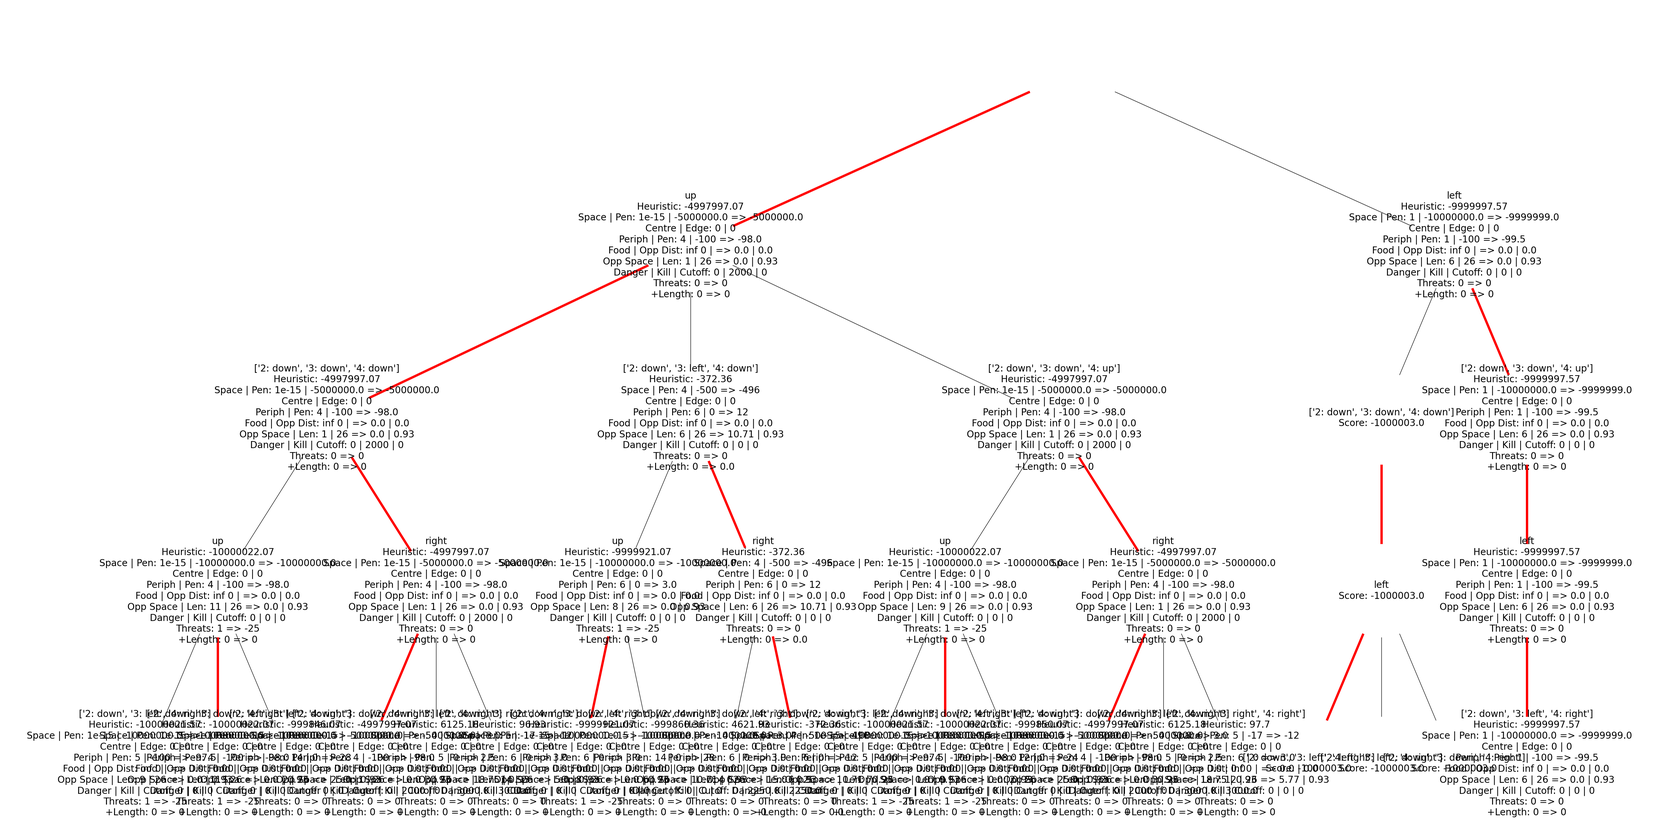
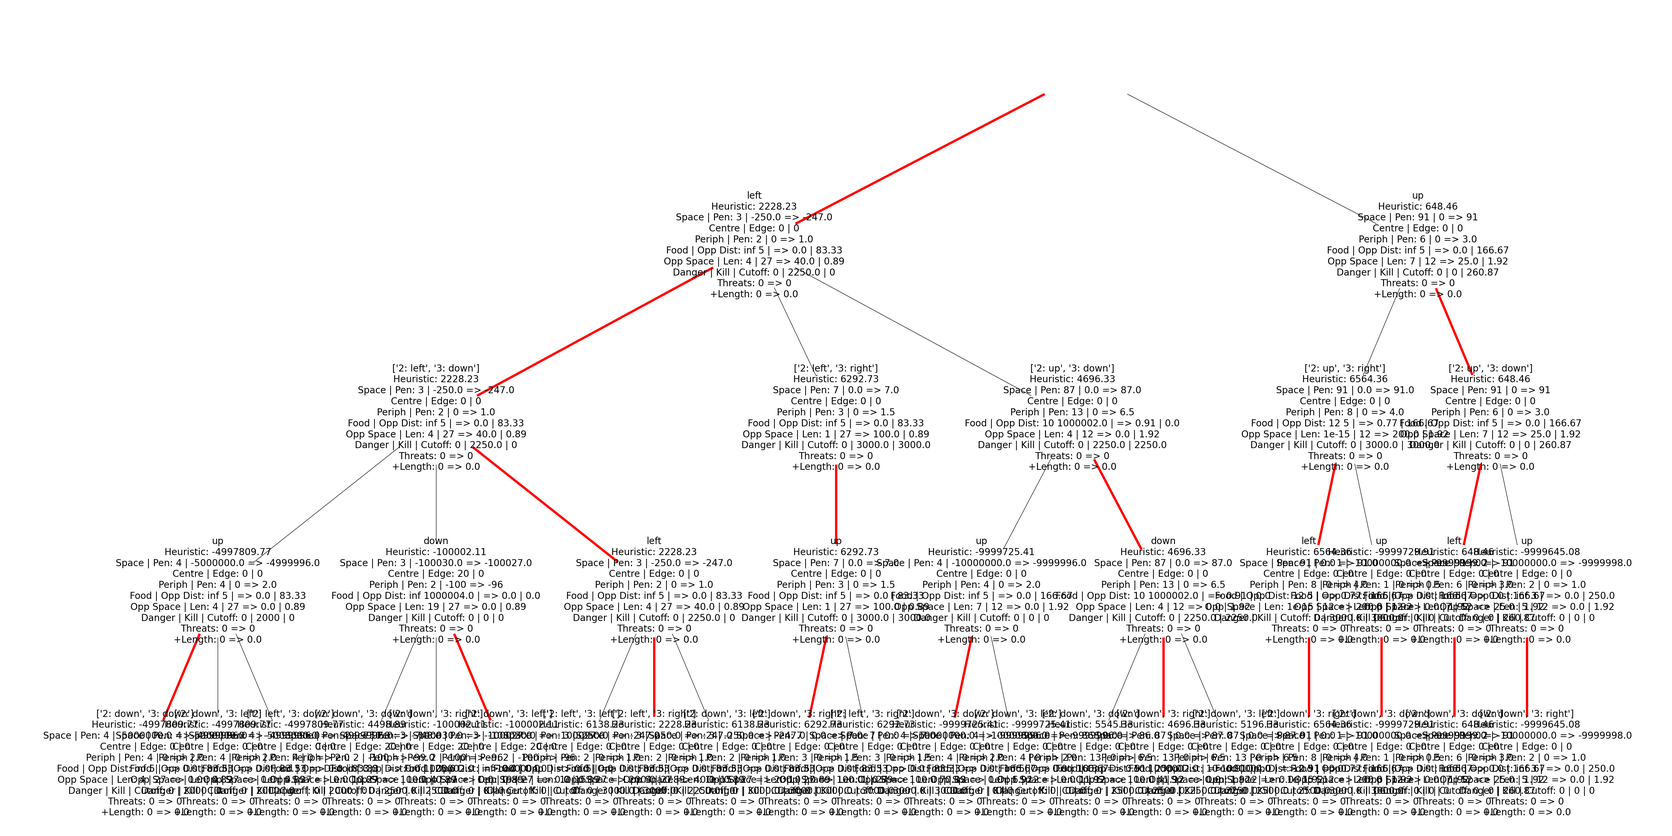
This is great we're making so much progress lal units passed

diff --git a/debugging.py b/debugging.py
@@ -66,7 +66,10 @@ game_state = {"game":{"id":"4f132881-17d2-4634-9a68-b86fef3f787d","ruleset":{"na
 game_state = {"game":{"id":"0425b5c0-5502-464f-846b-c6acfda810c3","ruleset":{"name":"standard","version":"?","settings":{"foodSpawnChance":15,"minimumFood":1}},"map":"standard","timeout":500,"source":"ladder"},"turn":39,"board":{"width":11,"height":11,"food":[{"x":0,"y":10},{"x":10,"y":3}],"hazards":[],"snakes":[{"id":"gs_9Q8RJRqxbh8pqcbq6mdyd9C9","name":"FerralSnake","health":73,"body":[{"x":0,"y":7},{"x":0,"y":8},{"x":0,"y":9},{"x":1,"y":9},{"x":2,"y":9}],"latency":296,"head":{"x":0,"y":7},"length":5,"shout":"","squad":"","customizations":{"color":"#3b228c","head":"pop-star","tail":"shiny"}},{"id":"gs_Kh3mbphyWPdhfByFCt4ft9Xb","name":"Nightwing","health":90,"body":[{"x":3,"y":6},{"x":3,"y":7},{"x":4,"y":7},{"x":4,"y":6},{"x":5,"y":6},{"x":6,"y":6},{"x":7,"y":6}],"latency":147,"head":{"x":3,"y":6},"length":7,"shout":"","squad":"","customizations":{"color":"#1f51ff","head":"silly","tail":"freckled"}}]},"you":{"id":"gs_Kh3mbphyWPdhfByFCt4ft9Xb","name":"Nightwing","health":90,"body":[{"x":3,"y":6},{"x":3,"y":7},{"x":4,"y":7},{"x":4,"y":6},{"x":5,"y":6},{"x":6,"y":6},{"x":7,"y":6}],"latency":147,"head":{"x":3,"y":6},"length":7,"shout":"","squad":"","customizations":{"color":"#1f51ff","head":"silly","tail":"freckled"}}}
 # food
 game_state = {"game":{"id":"1a4f72a4-5189-4159-ab8d-4c8dcf87534c","ruleset":{"name":"standard","version":"?","settings":{"foodSpawnChance":15,"minimumFood":1}},"map":"standard","timeout":500,"source":"ladder"},"turn":101,"board":{"width":11,"height":11,"food":[{"x":7,"y":7}],"hazards":[],"snakes":[{"id":"gs_3Vy8mhvpvVvCyC79DXxyXdjM","name":"rusty_rooster","health":94,"body":[{"x":2,"y":7},{"x":2,"y":6},{"x":2,"y":5},{"x":2,"y":4},{"x":1,"y":4},{"x":0,"y":4},{"x":0,"y":3},{"x":1,"y":3},{"x":2,"y":3}],"latency":22,"head":{"x":2,"y":7},"length":9,"shout":"","squad":"","customizations":{"color":"#c76d0c","head":"chicken","tail":"mlh-gene"}},{"id":"gs_hhw9dBYrTt73kYhShw84cYYX","name":"Nightwing","health":90,"body":[{"x":5,"y":6},{"x":4,"y":6},{"x":4,"y":5},{"x":3,"y":5},{"x":3,"y":6},{"x":3,"y":7},{"x":3,"y":8},{"x":3,"y":9}],"latency":149,"head":{"x":5,"y":6},"length":8,"shout":"","squad":"","customizations":{"color":"#1f51ff","head":"silly","tail":"bonhomme"}},{"id":"gs_KfkBfgWDgfHS9GjDcVPkwmfC","name":"Frank The Tank","health":100,"body":[{"x":7,"y":0},{"x":7,"y":1},{"x":6,"y":1},{"x":6,"y":2},{"x":7,"y":2},{"x":8,"y":2},{"x":9,"y":2},{"x":9,"y":1},{"x":10,"y":1},{"x":10,"y":0},{"x":9,"y":0},{"x":8,"y":0},{"x":8,"y":0}],"latency":10,"head":{"x":7,"y":0},"length":13,"shout":"Hi!","squad":"","customizations":{"color":"#ffff33","head":"whale","tail":"dragon"}}]},"you":{"id":"gs_hhw9dBYrTt73kYhShw84cYYX","name":"Nightwing","health":90,"body":[{"x":5,"y":6},{"x":4,"y":6},{"x":4,"y":5},{"x":3,"y":5},{"x":3,"y":6},{"x":3,"y":7},{"x":3,"y":8},{"x":3,"y":9}],"latency":149,"head":{"x":5,"y":6},"length":8,"shout":"","squad":"","customizations":{"color":"#1f51ff","head":"silly","tail":"bonhomme"}}}
-# Aggress
+game_state = {"game":{"id":"336d94a2-bea3-4d53-906b-d71364abc623","ruleset":{"name":"standard","version":"?","settings":{"foodSpawnChance":15,"minimumFood":1}},"map":"standard","timeout":500,"source":"ladder"},"turn":168,"board":{"width":11,"height":11,"food":[{"x":3,"y":5},{"x":2,"y":5},{"x":4,"y":10}],"hazards":[],"snakes":[{"id":"gs_rRKPyPRPDtfgMGhPWwbxDSd8","name":"Lancer","health":89,"body":[{"x":6,"y":6},{"x":5,"y":6},{"x":4,"y":6},{"x":4,"y":7},{"x":3,"y":7},{"x":2,"y":7},{"x":2,"y":8},{"x":2,"y":9},{"x":1,"y":9},{"x":1,"y":8}],"latency":454,"head":{"x":6,"y":6},"length":10,"shout":"","squad":"","customizations":{"color":"#3d5a80","head":"nr-rocket","tail":"comet"}},{"id":"gs_Y749TFVS6VFbW8kb3crHqmY4","name":"slieks","health":99,"body":[{"x":9,"y":9},{"x":9,"y":10},{"x":8,"y":10},{"x":8,"y":9},{"x":8,"y":8},{"x":8,"y":7},{"x":8,"y":6},{"x":8,"y":5},{"x":8,"y":4},{"x":8,"y":3},{"x":9,"y":3},{"x":10,"y":3}],"latency":184,"head":{"x":9,"y":9},"length":12,"shout":"","squad":"","customizations":{"color":"#cccccc","head":"moto-helmet","tail":"offroad"}},{"id":"gs_QgDk78VhgfyT8gpr8DqjPg4H","name":"Nightwing","health":90,"body":[{"x":6,"y":8},{"x":6,"y":9},{"x":7,"y":9},{"x":7,"y":8},{"x":7,"y":7},{"x":7,"y":6},{"x":7,"y":5},{"x":7,"y":4},{"x":6,"y":4},{"x":5,"y":4},{"x":4,"y":4},{"x":3,"y":4},{"x":2,"y":4},{"x":1,"y":4},{"x":1,"y":3},{"x":1,"y":2},{"x":1,"y":1},{"x":2,"y":1},{"x":2,"y":2}],"latency":280,"head":{"x":6,"y":8},"length":19,"shout":"","squad":"","customizations":{"color":"#1f51ff","head":"silly","tail":"bonhomme"}}]},"you":{"id":"gs_QgDk78VhgfyT8gpr8DqjPg4H","name":"Nightwing","health":90,"body":[{"x":6,"y":8},{"x":6,"y":9},{"x":7,"y":9},{"x":7,"y":8},{"x":7,"y":7},{"x":7,"y":6},{"x":7,"y":5},{"x":7,"y":4},{"x":6,"y":4},{"x":5,"y":4},{"x":4,"y":4},{"x":3,"y":4},{"x":2,"y":4},{"x":1,"y":4},{"x":1,"y":3},{"x":1,"y":2},{"x":1,"y":1},{"x":2,"y":1},{"x":2,"y":2}],"latency":280,"head":{"x":6,"y":8},"length":19,"shout":"","squad":"","customizations":{"color":"#1f51ff","head":"silly","tail":"bonhomme"}}}# Aggress
+game_state = {"game":{"id":"336d94a2-bea3-4d53-906b-d71364abc623","ruleset":{"name":"standard","version":"?","settings":{"foodSpawnChance":15,"minimumFood":1}},"map":"standard","timeout":500,"source":"ladder"},"turn":182,"board":{"width":11,"height":11,"food":[{"x":2,"y":5},{"x":10,"y":0},{"x":1,"y":1}],"hazards":[],"snakes":[{"id":"gs_rRKPyPRPDtfgMGhPWwbxDSd8","name":"Lancer","health":90,"body":[{"x":3,"y":3},{"x":2,"y":3},{"x":1,"y":3},{"x":1,"y":4},{"x":0,"y":4},{"x":0,"y":5},{"x":0,"y":6},{"x":1,"y":6},{"x":2,"y":6},{"x":3,"y":6},{"x":3,"y":5}],"latency":454,"head":{"x":3,"y":3},"length":11,"shout":"","squad":"","customizations":{"color":"#3d5a80","head":"nr-rocket","tail":"comet"}},{"id":"gs_Y749TFVS6VFbW8kb3crHqmY4","name":"slieks","health":85,"body":[{"x":9,"y":7},{"x":9,"y":8},{"x":9,"y":9},{"x":9,"y":10},{"x":8,"y":10},{"x":8,"y":9},{"x":8,"y":8},{"x":8,"y":7},{"x":8,"y":6},{"x":8,"y":5},{"x":9,"y":5},{"x":9,"y":6}],"latency":156,"head":{"x":9,"y":7},"length":12,"shout":"","squad":"","customizations":{"color":"#cccccc","head":"moto-helmet","tail":"offroad"}},{"id":"gs_QgDk78VhgfyT8gpr8DqjPg4H","name":"Nightwing","health":100,"body":[{"x":4,"y":10},{"x":4,"y":9},{"x":3,"y":9},{"x":2,"y":9},{"x":1,"y":9},{"x":1,"y":8},{"x":1,"y":7},{"x":2,"y":7},{"x":2,"y":8},{"x":3,"y":8},{"x":4,"y":8},{"x":5,"y":8},{"x":5,"y":7},{"x":6,"y":7},{"x":6,"y":8},{"x":6,"y":9},{"x":7,"y":9},{"x":7,"y":8},{"x":7,"y":7},{"x":7,"y":7}],"latency":127,"head":{"x":4,"y":10},"length":20,"shout":"","squad":"","customizations":{"color":"#1f51ff","head":"silly","tail":"bonhomme"}}]},"you":{"id":"gs_QgDk78VhgfyT8gpr8DqjPg4H","name":"Nightwing","health":100,"body":[{"x":4,"y":10},{"x":4,"y":9},{"x":3,"y":9},{"x":2,"y":9},{"x":1,"y":9},{"x":1,"y":8},{"x":1,"y":7},{"x":2,"y":7},{"x":2,"y":8},{"x":3,"y":8},{"x":4,"y":8},{"x":5,"y":8},{"x":5,"y":7},{"x":6,"y":7},{"x":6,"y":8},{"x":6,"y":9},{"x":7,"y":9},{"x":7,"y":8},{"x":7,"y":7},{"x":7,"y":7}],"latency":127,"head":{"x":4,"y":10},"length":20,"shout":"","squad":"","customizations":{"color":"#1f51ff","head":"silly","tail":"bonhomme"}}}
+game_state = {"game":{"id":"b0f0110d-37d3-4eed-ac6c-5788bc74f23d","ruleset":{"name":"standard","version":"?","settings":{"foodSpawnChance":15,"minimumFood":1}},"map":"standard","timeout":500,"source":"ladder"},"turn":194,"board":{"width":11,"height":11,"food":[{"x":0,"y":0}],"hazards":[],"snakes":[{"id":"gs_tXxjRDpbqt4rvqdY3tydJXgT","name":"Shapeshifter","health":100,"body":[{"x":4,"y":4},{"x":5,"y":4},{"x":6,"y":4},{"x":6,"y":5},{"x":5,"y":5},{"x":5,"y":6},{"x":4,"y":6},{"x":3,"y":6},{"x":3,"y":5},{"x":2,"y":5},{"x":1,"y":5},{"x":1,"y":4},{"x":1,"y":3},{"x":1,"y":2},{"x":1,"y":2}],"latency":449,"head":{"x":4,"y":4},"length":15,"shout":"","squad":"","customizations":{"color":"#900050","head":"cosmic-horror-special","tail":"cosmic-horror"}},{"id":"gs_ttqMrvHMrDhVb3XGbBcvDw6c","name":"Nightwing","health":91,"body":[{"x":4,"y":8},{"x":4,"y":7},{"x":5,"y":7},{"x":6,"y":7},{"x":6,"y":8},{"x":5,"y":8},{"x":5,"y":9},{"x":6,"y":9},{"x":6,"y":10},{"x":7,"y":10},{"x":7,"y":9},{"x":7,"y":8},{"x":8,"y":8},{"x":9,"y":8},{"x":9,"y":7},{"x":9,"y":6},{"x":8,"y":6}],"latency":116,"head":{"x":4,"y":8},"length":17,"shout":"","squad":"","customizations":{"color":"#1f51ff","head":"silly","tail":"hook"}},{"id":"gs_WBqhg4jBfMFF4cxtVVkvxtD9","name":"Spaceheater ","health":46,"body":[{"x":2,"y":10},{"x":1,"y":10},{"x":0,"y":10},{"x":0,"y":9},{"x":0,"y":8},{"x":0,"y":7},{"x":0,"y":6},{"x":1,"y":6},{"x":1,"y":7},{"x":1,"y":8},{"x":1,"y":9},{"x":2,"y":9}],"latency":135,"head":{"x":2,"y":10},"length":12,"shout":"12","squad":"","customizations":{"color":"#ff8400","head":"workout","tail":"rocket"}}]},"you":{"id":"gs_ttqMrvHMrDhVb3XGbBcvDw6c","name":"Nightwing","health":91,"body":[{"x":4,"y":8},{"x":4,"y":7},{"x":5,"y":7},{"x":6,"y":7},{"x":6,"y":8},{"x":5,"y":8},{"x":5,"y":9},{"x":6,"y":9},{"x":6,"y":10},{"x":7,"y":10},{"x":7,"y":9},{"x":7,"y":8},{"x":8,"y":8},{"x":9,"y":8},{"x":9,"y":7},{"x":9,"y":6},{"x":8,"y":6}],"latency":116,"head":{"x":4,"y":8},"length":17,"shout":"","squad":"","customizations":{"color":"#1f51ff","head":"silly","tail":"hook"}}}
+
 b = Battlesnake(game_state, debugging=True, local=True)
 clock_in = time.time_ns()
 print(f"\nBest move: {b.optimal_move()}")

diff --git a/tests/test_edge_cases.py b/tests/test_edge_cases.py
@@ -378,10 +378,10 @@ def test_entrapment():
     game_state = {"game":{"id":"4ab5c3be-b5e7-4b5d-8eb2-85ef92fa26e3","ruleset":{"name":"standard","version":"cli","settings":{"foodSpawnChance":15,"minimumFood":1,"hazardDamagePerTurn":14,"hazardMap":"","hazardMapAuthor":"","royale":{"shrinkEveryNTurns":25},"squad":{"allowBodyCollisions":False,"sharedElimination":False,"sharedHealth":False,"sharedLength":False}}},"map":"standard","timeout":500,"source":""},"turn":195,"board":{"height":11,"width":11,"snakes":[{"id":"b65338d4-f053-4db2-aaad-6f6dedb5a63d","name":"Rick2","latency":"107","health":88,"body":[{"x":9,"y":4},{"x":9,"y":5},{"x":8,"y":5},{"x":8,"y":6},{"x":8,"y":7},{"x":8,"y":8},{"x":7,"y":8},{"x":7,"y":9},{"x":7,"y":10},{"x":6,"y":10},{"x":5,"y":10},{"x":4,"y":10},{"x":3,"y":10},{"x":2,"y":10},{"x":1,"y":10},{"x":0,"y":10},{"x":0,"y":9},{"x":1,"y":9},{"x":1,"y":8}],"head":{"x":9,"y":4},"length":19,"shout":"","squad":"","customizations":{"color":"#00ff00","head":"shark","tail":"coffee"}},{"id":"9e9cd890-66e3-47ce-8c3f-50180c940740","name":"Nightwing","latency":"192","health":99,"body":[{"x":3,"y":0},{"x":3,"y":1},{"x":4,"y":1},{"x":5,"y":1},{"x":6,"y":1},{"x":7,"y":1},{"x":8,"y":1},{"x":8,"y":2},{"x":7,"y":2},{"x":7,"y":3},{"x":7,"y":4},{"x":7,"y":5},{"x":6,"y":5},{"x":5,"y":5},{"x":4,"y":5},{"x":4,"y":6},{"x":4,"y":7},{"x":3,"y":7},{"x":2,"y":7},{"x":2,"y":6},{"x":3,"y":6},{"x":3,"y":5}],"head":{"x":3,"y":0},"length":22,"shout":"","squad":"","customizations":{"color":"#3333ff","head":"ski","tail":"mystic-moon"}}],"food":[{"x":9,"y":3}],"hazards":[]},"you":{"id":"9e9cd890-66e3-47ce-8c3f-50180c940740","name":"Nightwing","latency":"192","health":99,"body":[{"x":3,"y":0},{"x":3,"y":1},{"x":4,"y":1},{"x":5,"y":1},{"x":6,"y":1},{"x":7,"y":1},{"x":8,"y":1},{"x":8,"y":2},{"x":7,"y":2},{"x":7,"y":3},{"x":7,"y":4},{"x":7,"y":5},{"x":6,"y":5},{"x":5,"y":5},{"x":4,"y":5},{"x":4,"y":6},{"x":4,"y":7},{"x":3,"y":7},{"x":2,"y":7},{"x":2,"y":6},{"x":3,"y":6},{"x":3,"y":5}],"head":{"x":3,"y":0},"length":22,"shout":"","squad":"","customizations":{"color":"#3333ff","head":"ski","tail":"mystic-moon"}}}
     next_move = Battlesnake(game_state, local=True).optimal_move()
     assert next_move in ["left"]
-    # Loss where you chose the riskier escape route
-    game_state = {"game":{"id":"bb920d06-60d6-48d9-8a07-74f7839044c3","ruleset":{"name":"standard","version":"?","settings":{"foodSpawnChance":15,"minimumFood":1}},"map":"standard","timeout":500,"source":"ladder"},"turn":73,"board":{"width":11,"height":11,"food":[{"x":9,"y":0},{"x":1,"y":8}],"hazards":[],"snakes":[{"id":"gs_c8wvXw9SgPMfTSYBh8mVVSTG","name":"Snake Without Brain","health":89,"body":[{"x":4,"y":9},{"x":5,"y":9},{"x":5,"y":10},{"x":6,"y":10},{"x":6,"y":9},{"x":6,"y":8},{"x":6,"y":7},{"x":6,"y":6},{"x":5,"y":6},{"x":4,"y":6}],"latency":29,"head":{"x":4,"y":9},"length":10,"shout":"","squad":"","customizations":{"color":"#888888","head":"default","tail":"default"}},{"id":"gs_KXjDMb63xcdDtx7WBX69KGhW","name":"cobra","health":43,"body":[{"x":0,"y":7},{"x":1,"y":7},{"x":1,"y":6},{"x":1,"y":5},{"x":0,"y":5},{"x":0,"y":4}],"latency":99,"head":{"x":0,"y":7},"length":6,"shout":"","squad":"","customizations":{"color":"#111111","head":"bonhomme","tail":"coffee"}},{"id":"gs_B3mXbR6HfSDcbTSbykxgYgq6","name":"SmikkelSnek","health":100,"body":[{"x":5,"y":0},{"x":5,"y":1},{"x":4,"y":1},{"x":4,"y":1}],"latency":99,"head":{"x":5,"y":0},"length":4,"shout":"","squad":"","customizations":{"color":"#ff0000","head":"caffeine","tail":"coffee"}},{"id":"gs_mRyR3fQfg7HjxDQjkwbBBmd9","name":"Nightwing","health":97,"body":[{"x":9,"y":8},{"x":8,"y":8},{"x":8,"y":9},{"x":7,"y":9},{"x":7,"y":8},{"x":7,"y":7},{"x":8,"y":7},{"x":8,"y":6},{"x":8,"y":5},{"x":9,"y":5},{"x":9,"y":6},{"x":10,"y":6},{"x":10,"y":5},{"x":10,"y":4},{"x":10,"y":3}],"latency":117,"head":{"x":9,"y":8},"length":15,"shout":"","squad":"","customizations":{"color":"#3333ff","head":"ski","tail":"mystic-moon"}}]},"you":{"id":"gs_mRyR3fQfg7HjxDQjkwbBBmd9","name":"Nightwing","health":97,"body":[{"x":9,"y":8},{"x":8,"y":8},{"x":8,"y":9},{"x":7,"y":9},{"x":7,"y":8},{"x":7,"y":7},{"x":8,"y":7},{"x":8,"y":6},{"x":8,"y":5},{"x":9,"y":5},{"x":9,"y":6},{"x":10,"y":6},{"x":10,"y":5},{"x":10,"y":4},{"x":10,"y":3}],"latency":117,"head":{"x":9,"y":8},"length":15,"shout":"","squad":"","customizations":{"color":"#3333ff","head":"ski","tail":"mystic-moon"}}}
-    next_move = Battlesnake(game_state, local=True).optimal_move()
-    assert next_move in ["up"]
+    # # Loss where you chose the riskier escape route
+    # game_state = {"game":{"id":"bb920d06-60d6-48d9-8a07-74f7839044c3","ruleset":{"name":"standard","version":"?","settings":{"foodSpawnChance":15,"minimumFood":1}},"map":"standard","timeout":500,"source":"ladder"},"turn":73,"board":{"width":11,"height":11,"food":[{"x":9,"y":0},{"x":1,"y":8}],"hazards":[],"snakes":[{"id":"gs_c8wvXw9SgPMfTSYBh8mVVSTG","name":"Snake Without Brain","health":89,"body":[{"x":4,"y":9},{"x":5,"y":9},{"x":5,"y":10},{"x":6,"y":10},{"x":6,"y":9},{"x":6,"y":8},{"x":6,"y":7},{"x":6,"y":6},{"x":5,"y":6},{"x":4,"y":6}],"latency":29,"head":{"x":4,"y":9},"length":10,"shout":"","squad":"","customizations":{"color":"#888888","head":"default","tail":"default"}},{"id":"gs_KXjDMb63xcdDtx7WBX69KGhW","name":"cobra","health":43,"body":[{"x":0,"y":7},{"x":1,"y":7},{"x":1,"y":6},{"x":1,"y":5},{"x":0,"y":5},{"x":0,"y":4}],"latency":99,"head":{"x":0,"y":7},"length":6,"shout":"","squad":"","customizations":{"color":"#111111","head":"bonhomme","tail":"coffee"}},{"id":"gs_B3mXbR6HfSDcbTSbykxgYgq6","name":"SmikkelSnek","health":100,"body":[{"x":5,"y":0},{"x":5,"y":1},{"x":4,"y":1},{"x":4,"y":1}],"latency":99,"head":{"x":5,"y":0},"length":4,"shout":"","squad":"","customizations":{"color":"#ff0000","head":"caffeine","tail":"coffee"}},{"id":"gs_mRyR3fQfg7HjxDQjkwbBBmd9","name":"Nightwing","health":97,"body":[{"x":9,"y":8},{"x":8,"y":8},{"x":8,"y":9},{"x":7,"y":9},{"x":7,"y":8},{"x":7,"y":7},{"x":8,"y":7},{"x":8,"y":6},{"x":8,"y":5},{"x":9,"y":5},{"x":9,"y":6},{"x":10,"y":6},{"x":10,"y":5},{"x":10,"y":4},{"x":10,"y":3}],"latency":117,"head":{"x":9,"y":8},"length":15,"shout":"","squad":"","customizations":{"color":"#3333ff","head":"ski","tail":"mystic-moon"}}]},"you":{"id":"gs_mRyR3fQfg7HjxDQjkwbBBmd9","name":"Nightwing","health":97,"body":[{"x":9,"y":8},{"x":8,"y":8},{"x":8,"y":9},{"x":7,"y":9},{"x":7,"y":8},{"x":7,"y":7},{"x":8,"y":7},{"x":8,"y":6},{"x":8,"y":5},{"x":9,"y":5},{"x":9,"y":6},{"x":10,"y":6},{"x":10,"y":5},{"x":10,"y":4},{"x":10,"y":3}],"latency":117,"head":{"x":9,"y":8},"length":15,"shout":"","squad":"","customizations":{"color":"#3333ff","head":"ski","tail":"mystic-moon"}}}
+    # next_move = Battlesnake(game_state, local=True).optimal_move()
+    # assert next_move in ["up"]
     # Crazy realisation that you'll get trapped if you move right
     game_state = {"game":{"id":"eaa5731c-1479-4923-a54d-49094a3e5784","ruleset":{"name":"standard","version":"?","settings":{"foodSpawnChance":15,"minimumFood":1}},"map":"standard","timeout":500,"source":"ladder"},"turn":64,"board":{"width":11,"height":11,"food":[{"x":9,"y":8}],"hazards":[],"snakes":[{"id":"gs_hSD4WSxmdtS8KpHXFrBKJJrX","name":"Nightwing","health":95,"body":[{"x":7,"y":9},{"x":7,"y":10},{"x":6,"y":10},{"x":5,"y":10},{"x":4,"y":10},{"x":3,"y":10},{"x":3,"y":9},{"x":2,"y":9},{"x":2,"y":8},{"x":2,"y":7}],"latency":131,"head":{"x":7,"y":9},"length":10,"shout":"","squad":"","customizations":{"color":"#3333ff","head":"ski","tail":"mystic-moon"}},{"id":"gs_7f4cTHtDDJCGTr6qCHGHkWBf","name":"ruby-danger-noodle","health":73,"body":[{"x":7,"y":7},{"x":8,"y":7},{"x":9,"y":7},{"x":9,"y":6},{"x":8,"y":6}],"latency":95,"head":{"x":7,"y":7},"length":5,"shout":"","squad":"","customizations":{"color":"#ff33fb","head":"gamer","tail":"virus"}},{"id":"gs_TVCjGw47dx7rkhvVbtTSJ3VG","name":"BSnake","health":75,"body":[{"x":8,"y":8},{"x":7,"y":8},{"x":6,"y":8},{"x":5,"y":8},{"x":4,"y":8},{"x":4,"y":7},{"x":3,"y":7}],"latency":218,"head":{"x":8,"y":8},"length":7,"shout":"","squad":"","customizations":{"color":"#f3d5a5","head":"smart-caterpillar","tail":"crystal-power"}}]},"you":{"id":"gs_hSD4WSxmdtS8KpHXFrBKJJrX","name":"Nightwing","health":95,"body":[{"x":7,"y":9},{"x":7,"y":10},{"x":6,"y":10},{"x":5,"y":10},{"x":4,"y":10},{"x":3,"y":10},{"x":3,"y":9},{"x":2,"y":9},{"x":2,"y":8},{"x":2,"y":7}],"latency":131,"head":{"x":7,"y":9},"length":10,"shout":"","squad":"","customizations":{"color":"#3333ff","head":"ski","tail":"mystic-moon"}}}
     next_move = Battlesnake(game_state, local=True).optimal_move()

diff --git a/snake_engine.py b/snake_engine.py
@@ -205,7 +205,7 @@ class Battlesnake:
         new_game.board.update_board()
         return new_game
 
-    def trap_detection(self, space_all, ff_bounds) -> tuple[bool, float | None]:
+    def trap_detection(self, space_all, ff_bounds) -> tuple[bool, float | None, float | None]:
         """
         Determine if our snake is trapped based on its possible escape routes
 
@@ -214,7 +214,7 @@ class Battlesnake:
             A heuristic to inform how dangerous our potential escape route would be
         """
         trapped = False
-        esc_penalty = None
+        esc_penalty, opp_trap_penalty = None, None
 
         opp_heads = [opp.head.as_tuple() for opp in self.opponents.values()]
         touch_opps = [Pos({"x": ff_bound[0], "y": ff_bound[1]}) for ff_bound in ff_bounds if ff_bound in opp_heads]
@@ -273,11 +273,12 @@ class Battlesnake:
                 # If we found an opening, consider whether there's an opponent snake waiting for us there
                 if not trapped:
                     snakes_near = [opp for opp in self.opponents.values() if (
-                            opp.head.manhattan_dist(opening) <= shortest_path_to_opening)]
+                            opp.head.manhattan_dist(opening) <= shortest_path_to_opening and self.board.shortest_dist(opp.head, self.you.head, efficient=False) >= 1e6)]
                     # Give more weight to enemy snakes that can kill us
                     threats_near = [opp for opp in snakes_near if opp.length >= self.you.length]
                     # Our escape heuristic penalises longer escape routes and routes with a possible opponent waiting
-                    esc_penalty = -(shortest_path_to_opening + 5 * len(snakes_near) + 10 * len(threats_near))
+                    esc_penalty = -shortest_path_to_opening
+                    opp_trap_penalty = -(5 * len(snakes_near) + 10 * len(threats_near))
             # If there's another trapped snake approaching us, see if we can reach the opening before a collision
             elif self.board.shortest_dist(self.you.head, opening) >= self.board.shortest_dist(
                     self.you.head, Pos({"x": collision_sq[0], "y": collision_sq[1]})):
@@ -285,7 +286,7 @@ class Battlesnake:
         else:
             trapped = True
 
-        return trapped, esc_penalty
+        return trapped, esc_penalty, opp_trap_penalty
 
     def edge_kill_detection(self, snake_id) -> bool:
         """
@@ -616,12 +617,17 @@ class Battlesnake:
         #         diagonal = True
 
         # Are we trapped? (With no incoming opponents trapped with us or cutting us off)
-        if space_all <= 15:
-            self.trapped, esc_penalty = self.trap_detection(space_all, ff_bounds)
-            # Penalise entrapment (-1e7) more than getting killed by an opponent (-1e6)
-            space_penalty = -1e7 if self.trapped and len(self.board.touch_opps) == 0 else space_penalty
-            space_penalty += esc_penalty if not self.trapped and esc_penalty is not None else 0
-            periph_all_weight = 0.5
+        if space_all <= 15 and len(add_space) == 0:
+            self.trapped, esc_penalty, opp_trap_penalty = self.trap_detection(space_all, ff_bounds)
+            if not self.trapped:
+                if opp_trap_penalty < 0:
+                    space_penalty = -1e5 + esc_penalty * 10
+            else:
+                # Penalise entrapment (-1e7) more than getting killed by an opponent (-1e6)
+                space_penalty = -1e7 if self.trapped and len(self.board.touch_opps) == 0 else space_penalty
+                space_penalty += esc_penalty if not self.trapped and esc_penalty is not None else 0
+                periph_all_weight = 0.5
+
         else:
             self.trapped = False
 

diff --git a/testing_heuristic.py b/testing_heuristic.py
@@ -2,7 +2,7 @@ from snake_engine import Battlesnake
 import numpy as np
 
 
-game_state = {'turn': 79, 'board': {'height': 11, 'width': 11, 'food': [{'x': 7, 'y': 10}], 'hazards': [], 'snakes': [{'id': 'gs_xXHdCmFY9bYrxR4q36cwKm8Y', 'name': 'Nightwing', 'health': 96, 'body': [{'x': 1, 'y': 0}, {'x': 2, 'y': 0}, {'x': 3, 'y': 0}, {'x': 4, 'y': 0}, {'x': 5, 'y': 0}, {'x': 6, 'y': 0}, {'x': 6, 'y': 1}], 'head': {'x': 1, 'y': 0}, 'length': 7, 'food_eaten': None}, {'id': 'gs_YhCTqvMyvTPd3J9RfHD7vtpR', 'name': 'rusty_rooster', 'health': 87, 'body': [{'x': 3, 'y': 4}, {'x': 3, 'y': 5}, {'x': 3, 'y': 6}, {'x': 4, 'y': 6}, {'x': 4, 'y': 5}, {'x': 5, 'y': 5}, {'x': 5, 'y': 6}, {'x': 6, 'y': 6}, {'x': 6, 'y': 7}, {'x': 6, 'y': 8}, {'x': 5, 'y': 8}, {'x': 5, 'y': 9}], 'head': {'x': 3, 'y': 4}, 'length': 12, 'food_eaten': None}, {'id': 'gs_BKgk4XGhYYybxpgdrMbF6V4K', 'name': 'slieks', 'health': 91, 'body': [{'x': 4, 'y': 3}, {'x': 5, 'y': 3}, {'x': 5, 'y': 4}, {'x': 6, 'y': 4}, {'x': 7, 'y': 4}, {'x': 7, 'y': 3}, {'x': 7, 'y': 2}], 'head': {'x': 4, 'y': 3}, 'length': 7, 'food_eaten': None}, {'id': 'gs_p8W3rbp39kRg7W6Qd7RXg4JJ', 'name': 'ich heisse marvin', 'health': 72, 'body': [{'x': 1, 'y': 2}, {'x': 0, 'y': 2}, {'x': 0, 'y': 1}, {'x': 1, 'y': 1}, {'x': 2, 'y': 1}, {'x': 2, 'y': 2}, {'x': 2, 'y': 3}], 'head': {'x': 1, 'y': 2}, 'length': 7, 'food_eaten': None}]}, 'you': {'id': 'gs_xXHdCmFY9bYrxR4q36cwKm8Y', 'name': 'Nightwing', 'health': 96, 'body': [{'x': 1, 'y': 0}, {'x': 2, 'y': 0}, {'x': 3, 'y': 0}, {'x': 4, 'y': 0}, {'x': 5, 'y': 0}, {'x': 6, 'y': 0}, {'x': 6, 'y': 1}], 'head': {'x': 1, 'y': 0}, 'length': 7, 'food_eaten': None}}
+game_state = {'turn': 194, 'board': {'height': 11, 'width': 11, 'food': [{'x': 0, 'y': 0}], 'hazards': [], 'snakes': [{'id': 'gs_ttqMrvHMrDhVb3XGbBcvDw6c', 'name': 'Nightwing', 'health': 89, 'body': [{'x': 2, 'y': 8}, {'x': 3, 'y': 8}, {'x': 4, 'y': 8}, {'x': 4, 'y': 7}, {'x': 5, 'y': 7}, {'x': 6, 'y': 7}, {'x': 6, 'y': 8}, {'x': 5, 'y': 8}, {'x': 5, 'y': 9}, {'x': 6, 'y': 9}, {'x': 6, 'y': 10}, {'x': 7, 'y': 10}, {'x': 7, 'y': 9}, {'x': 7, 'y': 8}, {'x': 8, 'y': 8}, {'x': 9, 'y': 8}, {'x': 9, 'y': 7}], 'head': {'x': 2, 'y': 8}, 'length': 17, 'food_eaten': None}, {'id': 'gs_tXxjRDpbqt4rvqdY3tydJXgT', 'name': 'Shapeshifter', 'health': 98, 'body': [{'x': 2, 'y': 4}, {'x': 3, 'y': 4}, {'x': 4, 'y': 4}, {'x': 5, 'y': 4}, {'x': 6, 'y': 4}, {'x': 6, 'y': 5}, {'x': 5, 'y': 5}, {'x': 5, 'y': 6}, {'x': 4, 'y': 6}, {'x': 3, 'y': 6}, {'x': 3, 'y': 5}, {'x': 2, 'y': 5}, {'x': 1, 'y': 5}, {'x': 1, 'y': 4}, {'x': 1, 'y': 3}], 'head': {'x': 2, 'y': 4}, 'length': 15, 'food_eaten': None}, {'id': 'gs_WBqhg4jBfMFF4cxtVVkvxtD9', 'name': 'Spaceheater ', 'health': 44, 'body': [{'x': 1, 'y': 9}, {'x': 2, 'y': 9}, {'x': 2, 'y': 10}, {'x': 1, 'y': 10}, {'x': 0, 'y': 10}, {'x': 0, 'y': 9}, {'x': 0, 'y': 8}, {'x': 0, 'y': 7}, {'x': 0, 'y': 6}, {'x': 1, 'y': 6}, {'x': 1, 'y': 7}, {'x': 1, 'y': 8}], 'head': {'x': 1, 'y': 9}, 'length': 12, 'food_eaten': None}]}, 'you': {'id': 'gs_ttqMrvHMrDhVb3XGbBcvDw6c', 'name': 'Nightwing', 'health': 89, 'body': [{'x': 2, 'y': 8}, {'x': 3, 'y': 8}, {'x': 4, 'y': 8}, {'x': 4, 'y': 7}, {'x': 5, 'y': 7}, {'x': 6, 'y': 7}, {'x': 6, 'y': 8}, {'x': 5, 'y': 8}, {'x': 5, 'y': 9}, {'x': 6, 'y': 9}, {'x': 6, 'y': 10}, {'x': 7, 'y': 10}, {'x': 7, 'y': 9}, {'x': 7, 'y': 8}, {'x': 8, 'y': 8}, {'x': 9, 'y': 8}, {'x': 9, 'y': 7}], 'head': {'x': 2, 'y': 8}, 'length': 17, 'food_eaten': None}}
 b = Battlesnake(game_state, debugging=True)
 b.board.update_board()
 h = b.heuristic(tree_depth=1)

diff --git a/main.py b/main.py
@@ -23,7 +23,7 @@ def info() -> typing.Dict:
         "apiversion": "1",
         "author": "G",
         "color": "#1F51FF",
-        "head": "silly",
+        "head": "workout",
         "tail": "curled",
     }
 
